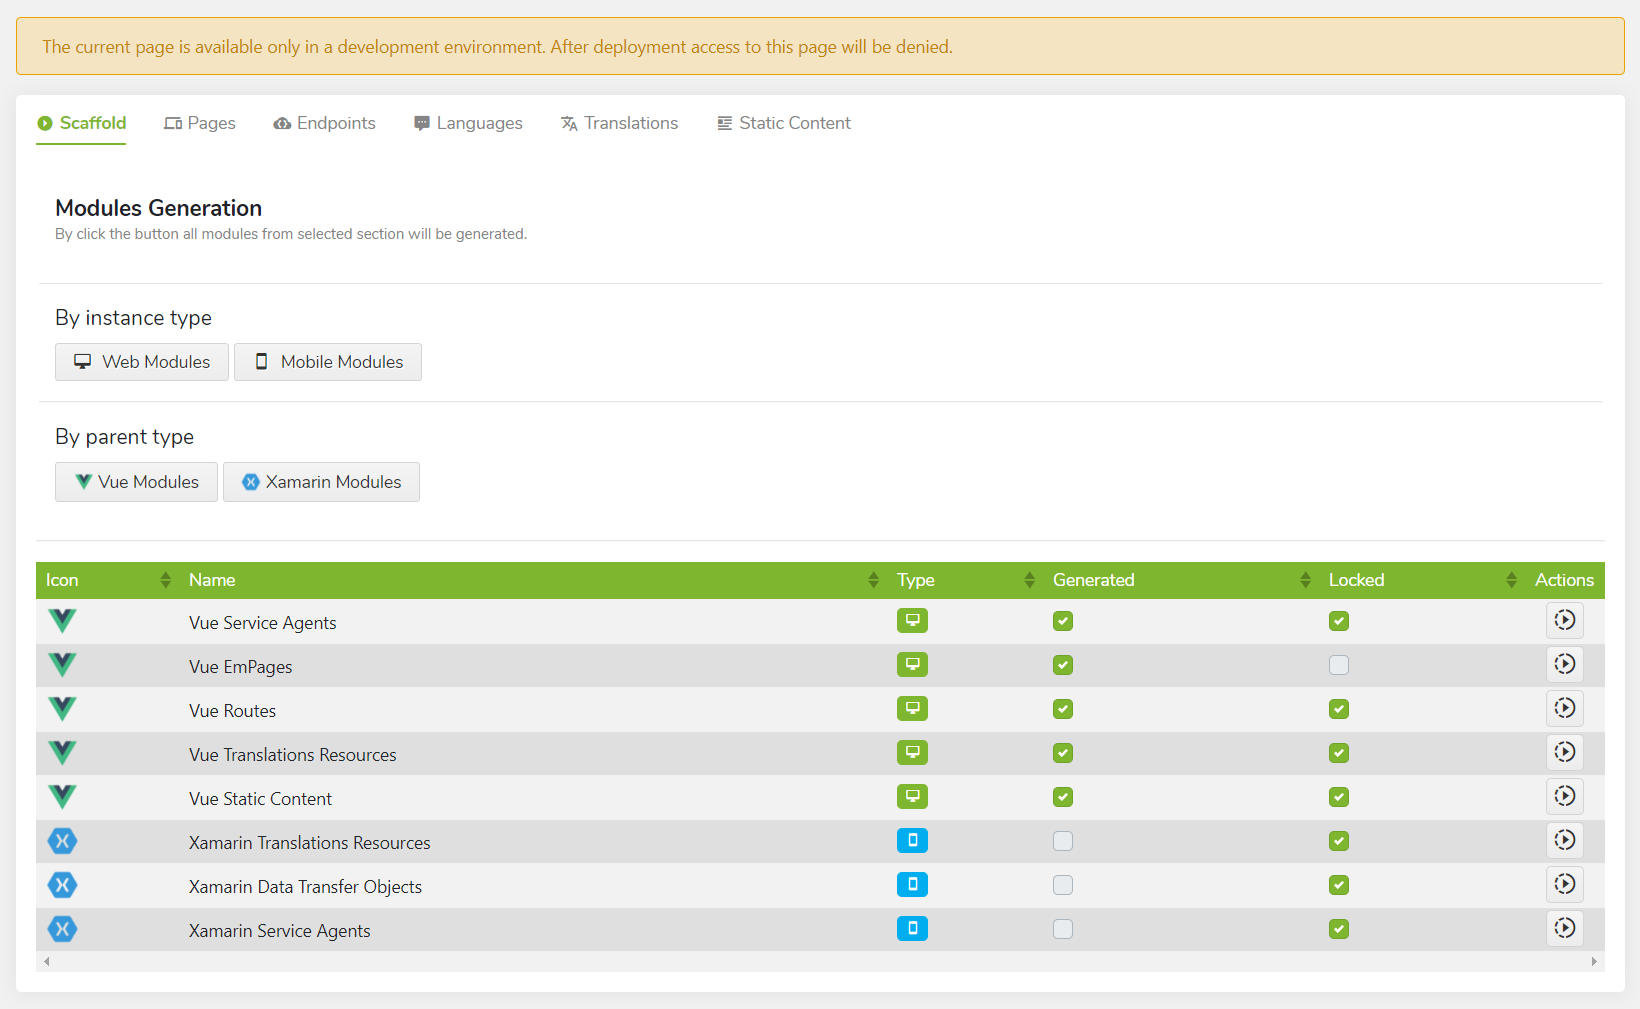
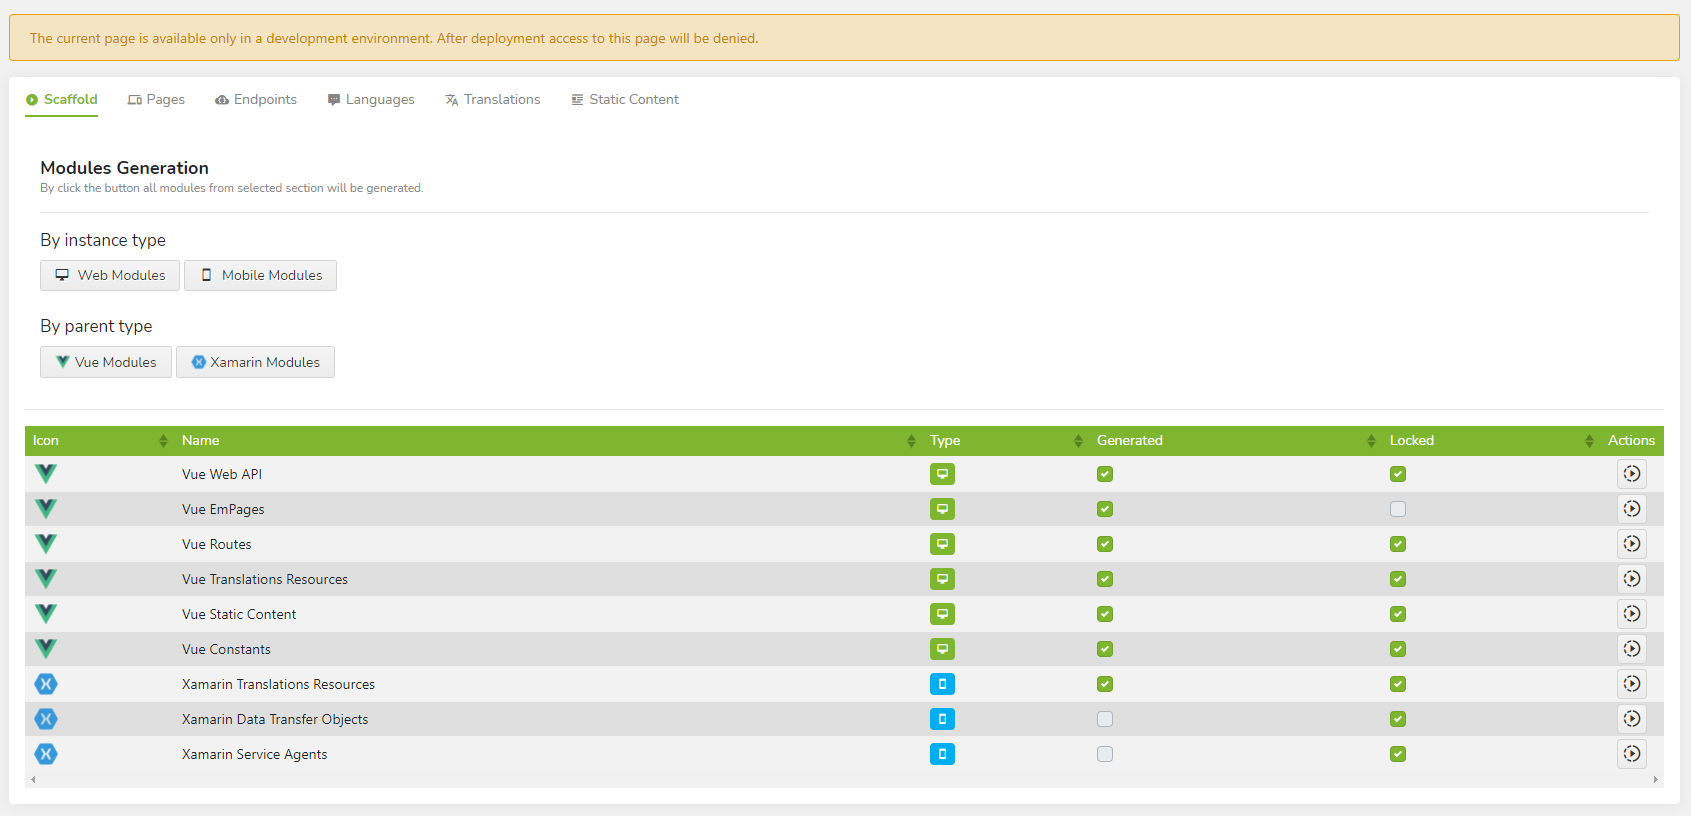
Upgrade client builder docs

diff --git a/docs/client-builder/descriptions.md b/docs/client-builder/descriptions.md
@@ -6,65 +6,87 @@ aspects. **Emeraude Client Builder** provides to developers the ability to simpl
 use abstractions and as a result a new code can be created (generated).
 
 With the help of static service called **DescriptionExtractor** each C# class with reasonable complexity can be transformed into
-simple and easy to read use class. The available abstractions are as follows:
+simple and easy to read use class. 
 
-## Type Description
-**TypeDescription** is one of the main classes which describe a type from C# object/primitive. The provided properties of 
-this type are:
+::: warning IMPORTANT
+**DescriptionExtractor** is using recursion to define and transform the different description types. Take into account
+that using it for types which have circular references might cause an infinite recursion.
+:::
 
-| Property           | Type                    | Description                                                          |
-|--------------------|-------------------------|----------------------------------------------------------------------|
-| Name               | string                  | Short name of the type.                                              |
-| FullName           | string                  | Full name of the type containing the namespace.                      |
-| JavaScriptTypeName | string                  | Translated type for JavaScript programming language.                 |
-| IsCollection       | bool                    | Indicates that the type is a collection (list, array, etc.)          |
-| IsNullable         | bool                    | Indicates that the type is nullable.                                 |
-| IsEnum             | bool                    | Indicates that the type is enumeration.                              |
-| IsComplexType      | bool                    | Indicates that the type is not primitive type.                       |
-| EnumValues         | Dictionary\<string, int>| Provides the enumeration keys and values if **IsEnum** is true.      |
-| ComplexType        | ClassDescription        | Provides the complex type of the class if **IsComplexType** is true. |
+The available abstractions used by the facade extractor are as follows:
 
-## ClassDescription
-**ClassDescription** describes a C# class and is quite similar like the **TypeDescription**. The usage of this class is mainly to
-describe a data transfer object (Example: ViewModel class).
+## Type Descriptions
+**TypeDescriptions** are simplified assembly descriptions and one of the main classes which describe a type from C# object/primitive. They provide:
 
-| Property                                  | Type              | Description                                                                                                |
-|-------------------------------------------|-------------------|------------------------------------------------------------------------------------------------------------|
-| Name                                      | string            | Short name of the class.                                                                                   |
-| FullName                                  | string            | Full name of the class containing the namespace.                                                           |
-| JavaScriptTypeName                        | string            | Translated type for JavaScript programming language.                                                       |
-| Properties                                | List\<PropertyDescription> | A list that contains definitions for each property of the class.                                           |
-| IsComplex                                 | bool              | Indicates that the type of the class is not assignable from primitive type.                                |
-| ConstructorArgumentsListString            | string            | Returns a string that visualize the properties as a function arguments, separated with comma.              |
-| ConstructorStrongTypedArgumentsListString | string            | Returns a string that visualize the properties as a function strong typed arguments, separated with comma. |
+###### ConstructorArgumentsListString `property`
+Constructor arguments names of the class, separated with comma and join into a string.
 
-## PropertyDescription
-**Property** is direct related with **ClassDescription** and its main purpose is to describe a property from a class.
+###### ConstructorStrongTypedArgumentsListString `property`
+Constructor arguments names of the endpoint, separated with comma and join into a string with their types.
 
-| Property     | Type    | Description                                                    |
-|--------------|---------|----------------------------------------------------------------|
-| Name         | string  | Short name of the property.                                    |
-| ReadOnly     | bool    | Indicates that the property has setter or not.                 |
-| Type         | TypeDescription | Provides the type of the property in **TypeDescription** format.       |
-| DefaultValue | string  | Returns the default value of the property (Example: int => 0). |
+###### EnumValues `property`
+Enumeration values in case when type is enum.
 
+###### FullName `property`
+Full name of the class.
 
-## ResponseDescription
+###### IsCollection `property`
+Indicates that the type is collection or not.
+
+###### IsComplex `property`
+Indicates that the type is primitive type (false) or not (true).
+
+###### IsEnum `property`
+
+Indicates that the type is enumeration or not.
+
+###### IsGenericType `property`
+Indicates that the type is generic type or not.
+
+###### IsNullable `property`
+Indicates that the type is nullable or not.
+
+###### JavaScriptTypeName `property`
+JavaScript name of the class.
+
+###### Name `property`
+Name of the class.
+
+###### Properties `property`
+List of all properties of the class.
+
+## Property Descriptions
+**Properties** are directly related with **TypeDescription** and its main purpose is to describe a property from a class.
+They provide:
+
+###### DefaultValue `property`
+Default value for the current type.
+
+###### Name `property`
+Name of the property.
+
+###### ReadOnly `property`
+Indicates whether the property is read-only or not.
+
+###### Type `property`
+Type description of the property.
+
+## Response Descriptions
 **ResponseDescription** is a helper class that provides description for a method result, mainly used for extraction the result types of 
-controller actions.
+controller actions. They provide:
 
-| Property     | Type     | Description                                     |
-|--------------|----------|-------------------------------------------------|
-| Void         | bool     | Indicates that the result have a result or not. |
-| Class        | ClassDescription | Provides the class of the response.             |
-| IsCollection | bool     | Indicates that the result is a collection.      |
+###### Type `property`
+Type description of the response.
 
-## ArgumentDescription
+###### Void `property`
+Indicates whether the response is void.
+
+## Argument Descriptions
 **ArgumentDescription** is a helper class that provides description for a method argument, mainly used for extraction the result types of 
 controller actions.
 
-| Property     | Type     | Description                                  |
-|--------------|----------|----------------------------------------------|
-| Name         | string   | Returns the name of the argument.            |
-| Class        | ClassDescription | Provides the class of the argument.          |
-| IsCollection | bool     | Indicates that the argument is a collection. |
+###### Name `property`
+Name of the argument.
+
+###### Type `property`
+Type description of the argument.

diff --git a/docs/client-builder/web-modules.md b/docs/client-builder/web-modules.md
@@ -1,66 +1,38 @@
 # Web Modules
 
 Web modules are predefined modules for Vue app generation. Each module use mainly the EmPages and 
-API endpoints defined by the developers. A little information about each web module is provided here:
+API endpoints defined by the developers. Basic information about each web module is provided here:
 
 ## Vue EmPages
 The main purpose of the module is to generate the folders and related components for each EmPage. This module is simple and is 
 mainly useful at the beginning of the development cycle. Pages module generates once a Vue file that contains base 
-Vue lifecycle hooks and base template and style:
-````vue
-<template>
-    <h1>PageName</h1>
-</template>
-
-<script>
-    export default {
-        name: "PageName",
-        data() {
-            return {
-
-            };
-        },
-        computed: {
-
-        },
-        methods: {
-
-        },
-        mounted() {
-
-        }
-    }
-</script>
-
-<style scoped>
-
-</style>
-````
+Vue lifecycle hooks and base template.
 
 ## Vue Routes
-This module generate the Vue router (**index.js** and **routes.js**). This module is locked and quite important for
+This module generates the Vue router (**index.js** and **routes.js**). This module is locked and quite important for
 the proper work of your web vue-based application. More about the routes and how they are related to **EmPages** 
 can be found on [EmPages section](/client/em-pages.html).
 
-## Vue Service Agents
+## Vue Web API
 This module is related to the API communication between back-end and Vue app. Again this module is locked for custom 
-corrections. The result files of module are **endpoints.js** and **enums.js**. The first file contains 
-instances of classes with suffix ServiceAgent which contain promise return functions that provide communication 
-with the back-end API. At the beginning of the **endpoints.js** are generated all data transfer objects in comments 
-which provide information for types used in generated functions. These comments are quite useful if you use
-JavaScript friendly IDE. On the other hand **enums.js** provides a list of dictionaries that contains the definition of
-used enumerations from the API endpoints.
+corrections. The result files of module are **endpoints.js**, **types.js** and **enums.js**. 
+The **endpoints.js** contains instances of classes with a suffix ServiceAgent which contain promise return functions that 
+provide communication with the back-end API.
+The **types.js** includes all data transfer object types extracted from the endpoints and bundled into a classes and comments.
+The comments might be very useful if you use JavaScript friendly IDE.
+The **enums.js** provides a list of dictionaries that contains the definition of used enumerations from the API endpoints.
+In addition, for each enumeration is created a help object that contains the enumeration translation keys and their relative values.
 
 ## Vue Translations Resources
-This module is related with locales data of the system. The module use the languages and translations 
+This module is related with locales data of the system. The module uses the languages and translations 
 defined into locales database to generate **n** json files (where **n** is the amount of defined languages) that contains the translations for each 
-translation key in format to be used easily from **i18n** package. For example if you are defined two languages 
-English and Bulgarian - the result files will be **en.json** and **bg.json**. In addition to these JSON files a i18n configuration file
+translation key in a format to be used easily from **i18n** package. For example if you are defined two languages 
+English and Bulgarian - the result files will be **en.json** and **bg.json**. In addition to these JSON files an i18n configuration file
 will be generated.
 
 ## Vue Static Content
 This module generates a component for each static content key with option for the language of the current request.
-The result file of the module is locked for modify so it is not recommended to be changed outside of the client builder interface.
+The result file of the module is locked for modify, so it is not recommended being changed outside the client builder interface.
 A sample component file is shown on the code below:
 ````vue
 <template>
@@ -83,3 +55,15 @@ A sample component file is shown on the code below:
     }
 </script>
 ````
+
+## Vue Constants
+This module generates **constants.js** from specified classes types which contains public constants. The module is configurable
+which means you have to specify which types will be scanned for data extraction.
+```cs
+services.AddEmeraudeClientBuilder(options =>
+{
+    // ...
+    options.ConstantsTypes.Add(typeof(SomeConstants));
+    // ...
+});
+```

diff --git a/docs/client-builder/localization.md b/docs/client-builder/localization.md
@@ -1,10 +1,15 @@
 # Localization
 The localization module of the **Emeraude Client Builder** is the place where is made the connection 
-between the administration UI and locales database.
+between the administration UI and locales database. It is separated on three main parts:
 
-![Client Builder](/assets/images/client_builder_localization.png)
+## Languages
+Defines the languages which will be used from the system.
+![Languages](/assets/images/client_builder_localization_languages.png)
 
-The module is separated on three main parts:
-- **Languages** - Define the languages which will be used from the system.
-- **Translations** - Define the list of translation keys and their related translations in different languages.
-- **Static Content** - Define static content for static/semi-static pages in different languages.
+## Translations
+Defines the list of translation keys, and their related translations in different languages.
+![Translations](/assets/images/client_builder_localization_translations.png)
+
+## Static Content
+Define static content for static/semi-static pages in different languages.
+![Static Content](/assets/images/client_builder_localization_static_content.png)
